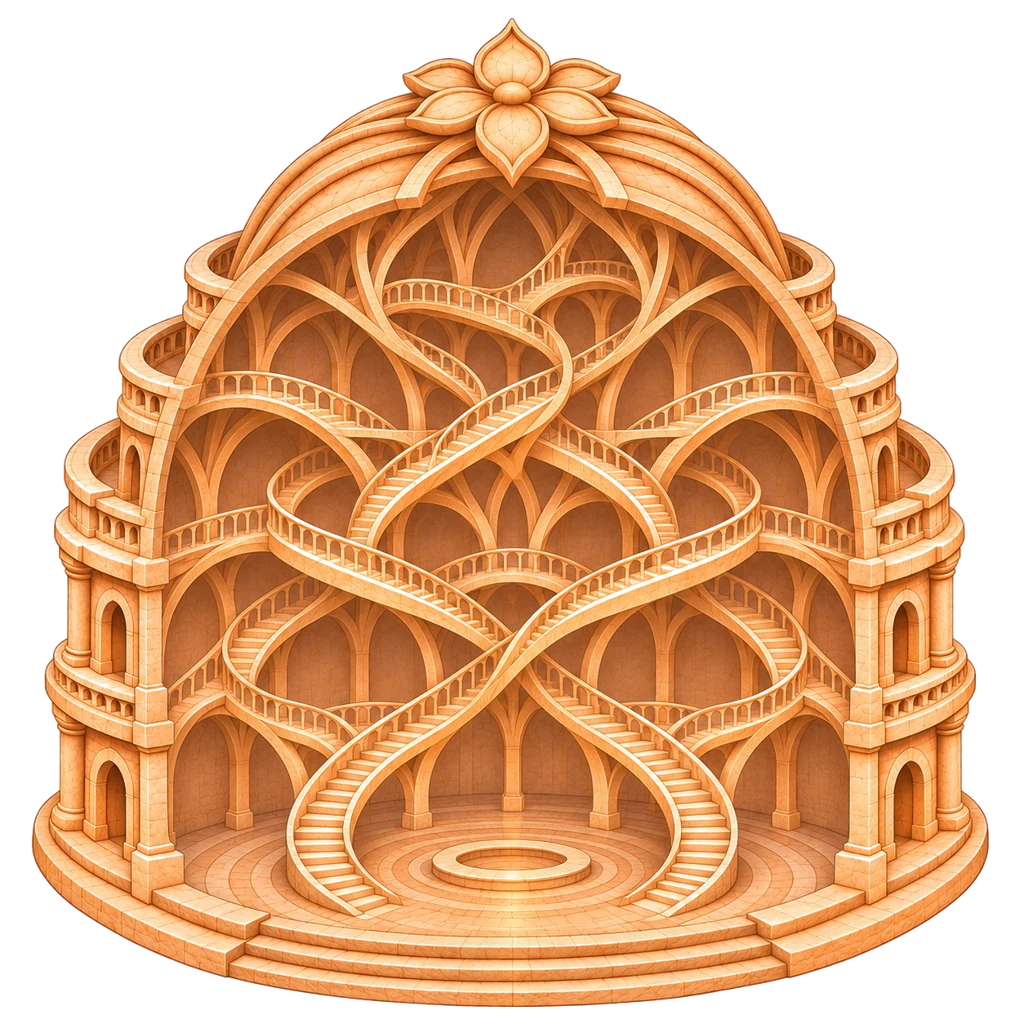
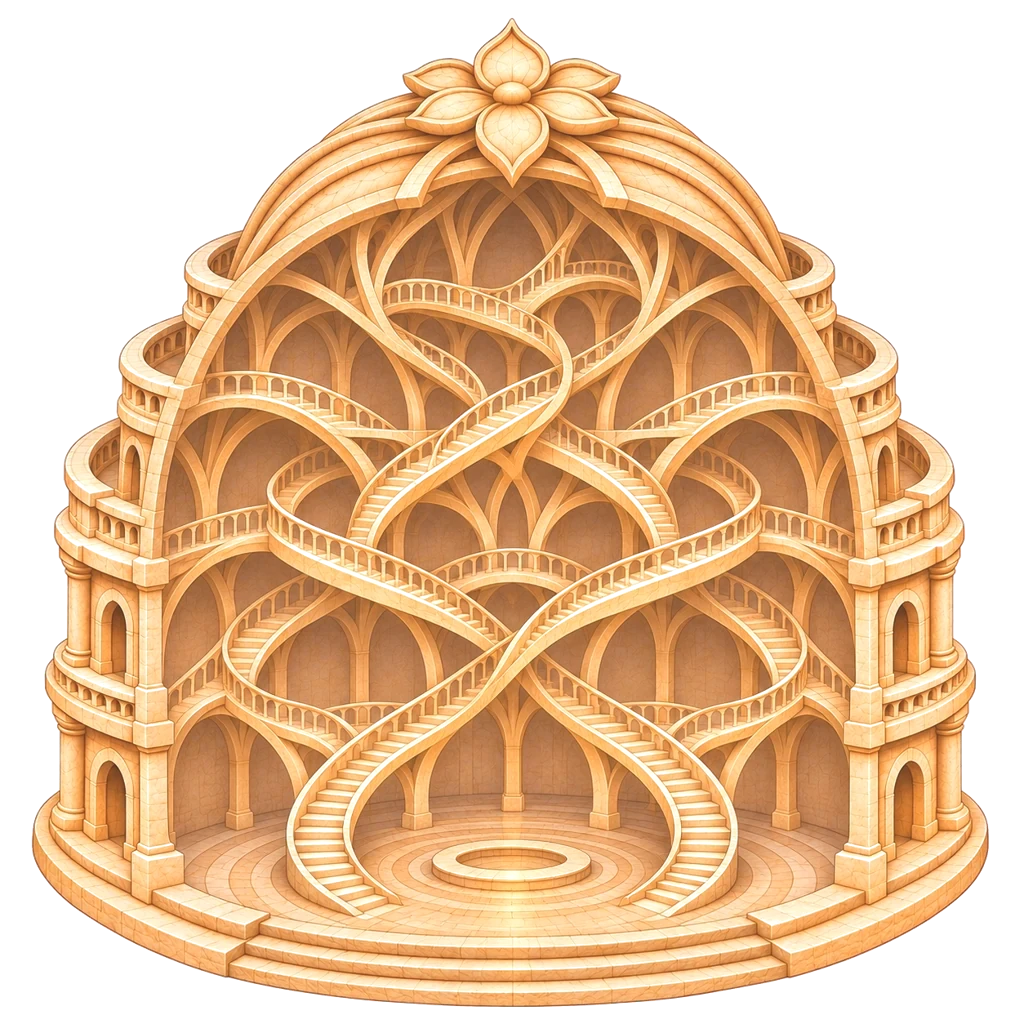
Palace: grade the dome architecture into the family; overhead art to WebP
The 2026-11-27 colour-consistency pass (#474) graded the overhead
family and the compound buildings but never the dome scene itself —
its architecture plate still ran at the raw (214,139,80). Graded with
the same Reinhard transfer toward the plan+rose family statistics at
t=0.55 (the strength its crop carried as palace-below in #474):
opaque mean -> (221,164,107), alpha untouched.

The overhead scene also pulled ~7.3MB of PNG art (shell 1.68MB,
palace-below 2.53MB, domed-large 1.77MB, sky band 0.72MB), slow
enough on a phone connection that a reload landing in a deploy
window left broken images latched in the page. The six overhead
assets are now WebP (q90, alpha_quality 100): 7.27MB -> 1.07MB
total, alpha coverage identical, colour means within one point.
New content hashes also bust any stale cached copies.

diff --git a/frontend/src/living-palace/palaceCanvas.tsx b/frontend/src/living-palace/palaceCanvas.tsx
@@ -78,13 +78,13 @@ import drawingTableImage from './assets/palace-drawing-table.webp'
 import { BONSAI_ASPECT, BONSAI_BASE_LIFT, useBenchBonsaiImage } from './palacePlant'
 import architectureImage from './assets/palace-architecture.webp'
 import plateImage from '../assets/living-sky/plate.webp'
-import domedLargeImage from './assets/founder-domed-large.png'
-import domedMediumImage from './assets/founder-domed-medium.png'
-import domedSmallImage from './assets/founder-domed-small.png'
-import shellImage from './assets/dome-shell-extracted-v2.png'
+import domedLargeImage from './assets/founder-domed-large.webp'
+import domedMediumImage from './assets/founder-domed-medium.webp'
+import domedSmallImage from './assets/founder-domed-small.webp'
+import shellImage from './assets/dome-shell-extracted-v2.webp'
 import pavingImage from './assets/palace-floor-paving.png'
-import skyBandImage from './assets/palace-sky-band.png'
-import palaceBelowImage from './assets/palace-below.png'
+import skyBandImage from './assets/palace-sky-band.webp'
+import palaceBelowImage from './assets/palace-below.webp'
 import { SEAT_COLORS, type SeatId } from '../council/colors'
 
 /* The prototype's material palette. */
@@ -970,7 +970,7 @@ export function BuildingScene({
 /*   → rooms back-to-front (the hearth among them) → shell FRONT.     */
 /*                                                                     */
 /* The shell is the palace's own domed wall with its stained glass    */
-/* baked in (dome-shell-extracted-v2.png), registered to the view's   */
+/* baked in (dome-shell-extracted-v2.webp), registered to the view's   */
 /* floor ellipse by the measured anisotropic affine of                */
 /* build_dome_shell_proof_v2.py: its floor ellipse (780.0, 628.4,     */
 /* 444.5, 271.9) in the shell's 1536×1024 frame maps onto this        */
@@ -1304,7 +1304,7 @@ export function OverheadScene({
         aria-label={`Inside ${model.project.title} from above — its tasks as domed rooms`}
       >
         {/* 1 — the sky band, and nothing else: a true crop of
-            the living-sky plate's top (palace-sky-band.png,
+            the living-sky plate's top (palace-sky-band.webp,
             the plate's own first 400 rows as its own asset —
             no mountains, no strata, no lake can ride it, at
             any aspect) */}
